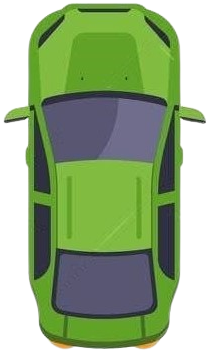
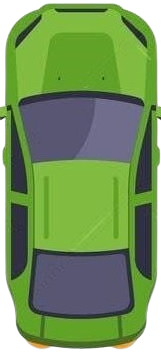
imagenes achicadas

diff --git a/src/bloques.py b/src/bloques.py
@@ -3,6 +3,18 @@ from random import randint
 from settings import *
 
 def create_block(imagen:pygame.Surface = None, left=0, top=0, width=50, height=50):
+    """ Crea un rectangulo
+
+    Args:
+        imagen (pygame.Surface, optional): Pasamos la imagen a mostrar en el rectangulo.
+        left (int, optional): pasamos la coordenada X donde inicia el rectangulo.
+        top (int, optional): pasamos la coordenada Y donde inicia el rectangulo.
+        width (int, optional): pasamos el ancho del rectangulo.
+        height (int, optional): pasamos el alto del rectangulo.
+
+    Returns:
+        dict: crea un rectangulo en forma de diccionario
+    """
     if imagen:
         imagen = pygame.transform.scale(imagen, (width, height))
     return {"rect": pygame.Rect(left, top, width, height), "img": imagen}

diff --git a/src/settings.py b/src/settings.py
@@ -21,7 +21,7 @@ BROWN = (93, 40, 1)
 
 # PLAYER:
 player_w = 68
-player_h = 95
+player_h = 115
 
 # Road:
 road_y = 0  # posicion inicial de la imagen de la calle
@@ -43,11 +43,7 @@ pasto_x = 0
 
 # Traffic:
 traffic_car_w = 68
-traffic_car_h = 95
-
-van_car_w = 80
-van_car_h = 100
-
+traffic_car_h = 115
 reduce_speed = 8
 traffic_speed = 10
 aparecer_arriba = -80

diff --git a/src/main.py b/src/main.py
@@ -4,8 +4,6 @@ from bloques import *
 from colisiones import *
 from modulos import *
 
-##########  (!)   30/06  quitar/agregar los .convert() para sacar los fondos negros. HAY QUE CORREGIR LOS RECTANGULOS DE CADA BLOQUE  ##########
-
 # pygame setup
 pygame.init()
 screen = pygame.display.set_mode(SIZE_SCREEN)
